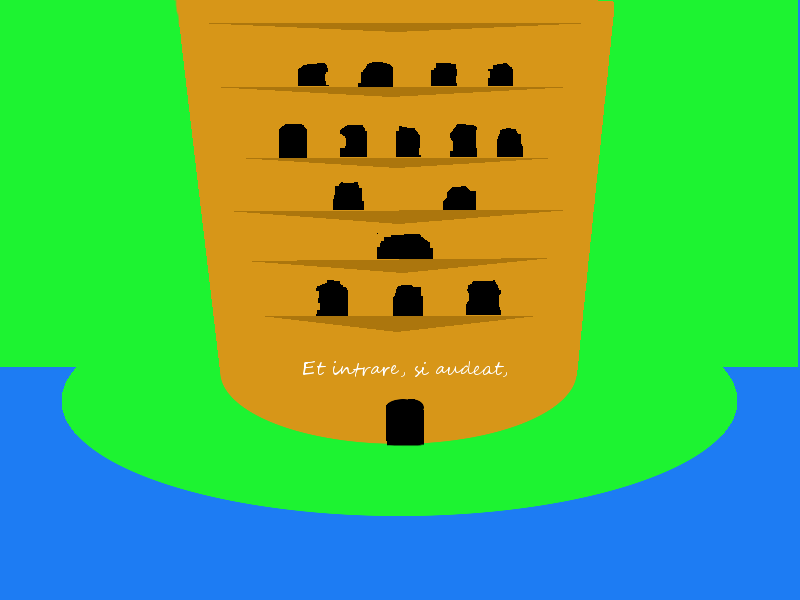
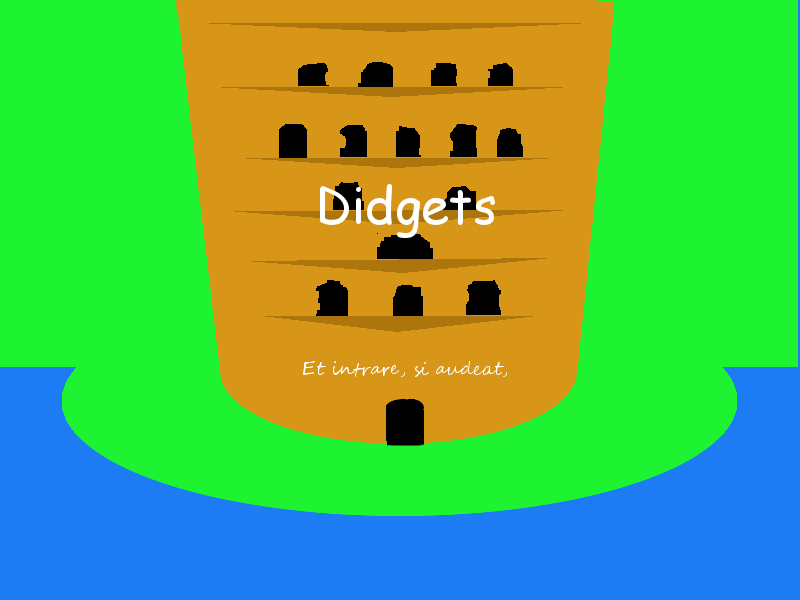
Added pictures and edited some of them in pause and title

Changed region(s): [[0.375, 0.3, 0.625, 0.42]]

diff --git a/BPA--Game/BPA--Game/PauseScreen.cs b/BPA--Game/BPA--Game/PauseScreen.cs
@@ -20,6 +20,7 @@ namespace BPA__Game
         int screenWidth;
         int screenHeight;
         Player player;
+        Texture2D background;
 
  
         public PauseScreen()
@@ -52,7 +53,8 @@ namespace BPA__Game
             btnResume.setPosition(new Vector2(350, 300));    
             btnOp.setPosition(new Vector2(350, 400 + btnOp.size.Y * 2));
             btnExit.setPosition(new Vector2(359, 500 + btnExit.size.Y * 2));
-            
+            background = ContentMgr.Load<Texture2D>("PauseScreen");
+
         }
         public override void UnloadContent()
         {
@@ -63,6 +65,7 @@ namespace BPA__Game
         }
         public override void Draw(SpriteBatch spriteBatch)
         {
+            spriteBatch.Draw(background, new Rectangle(0, 0, 800, 700), Color.White);
             btnResume.Draw(spriteBatch);
             btnOp.Draw(spriteBatch);
             btnExit.Draw(spriteBatch);
